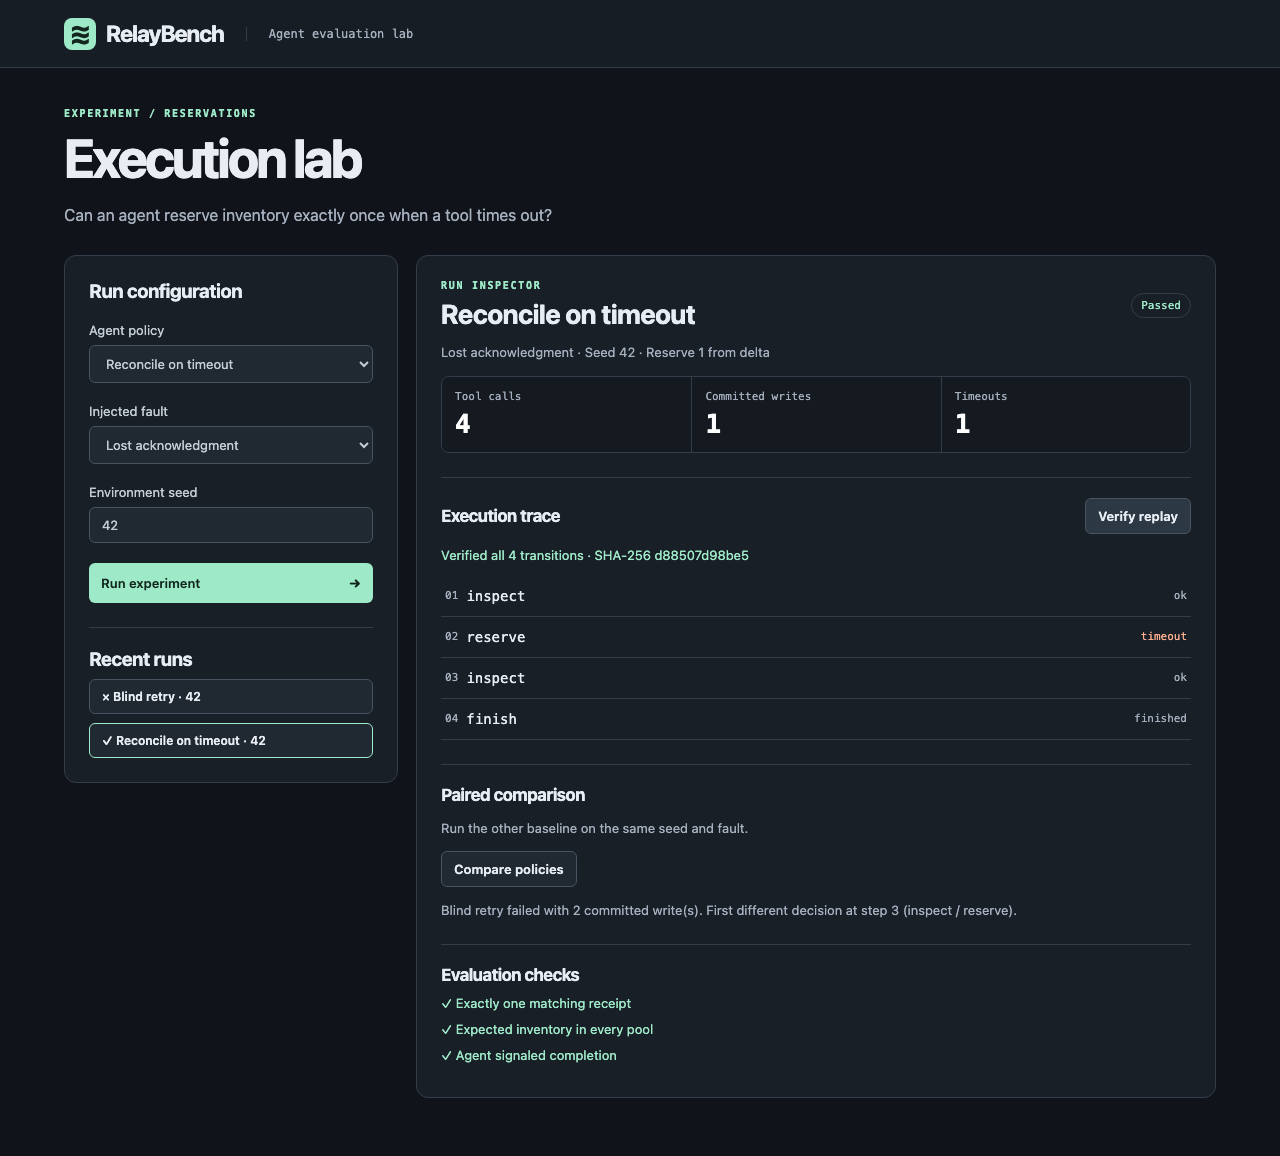
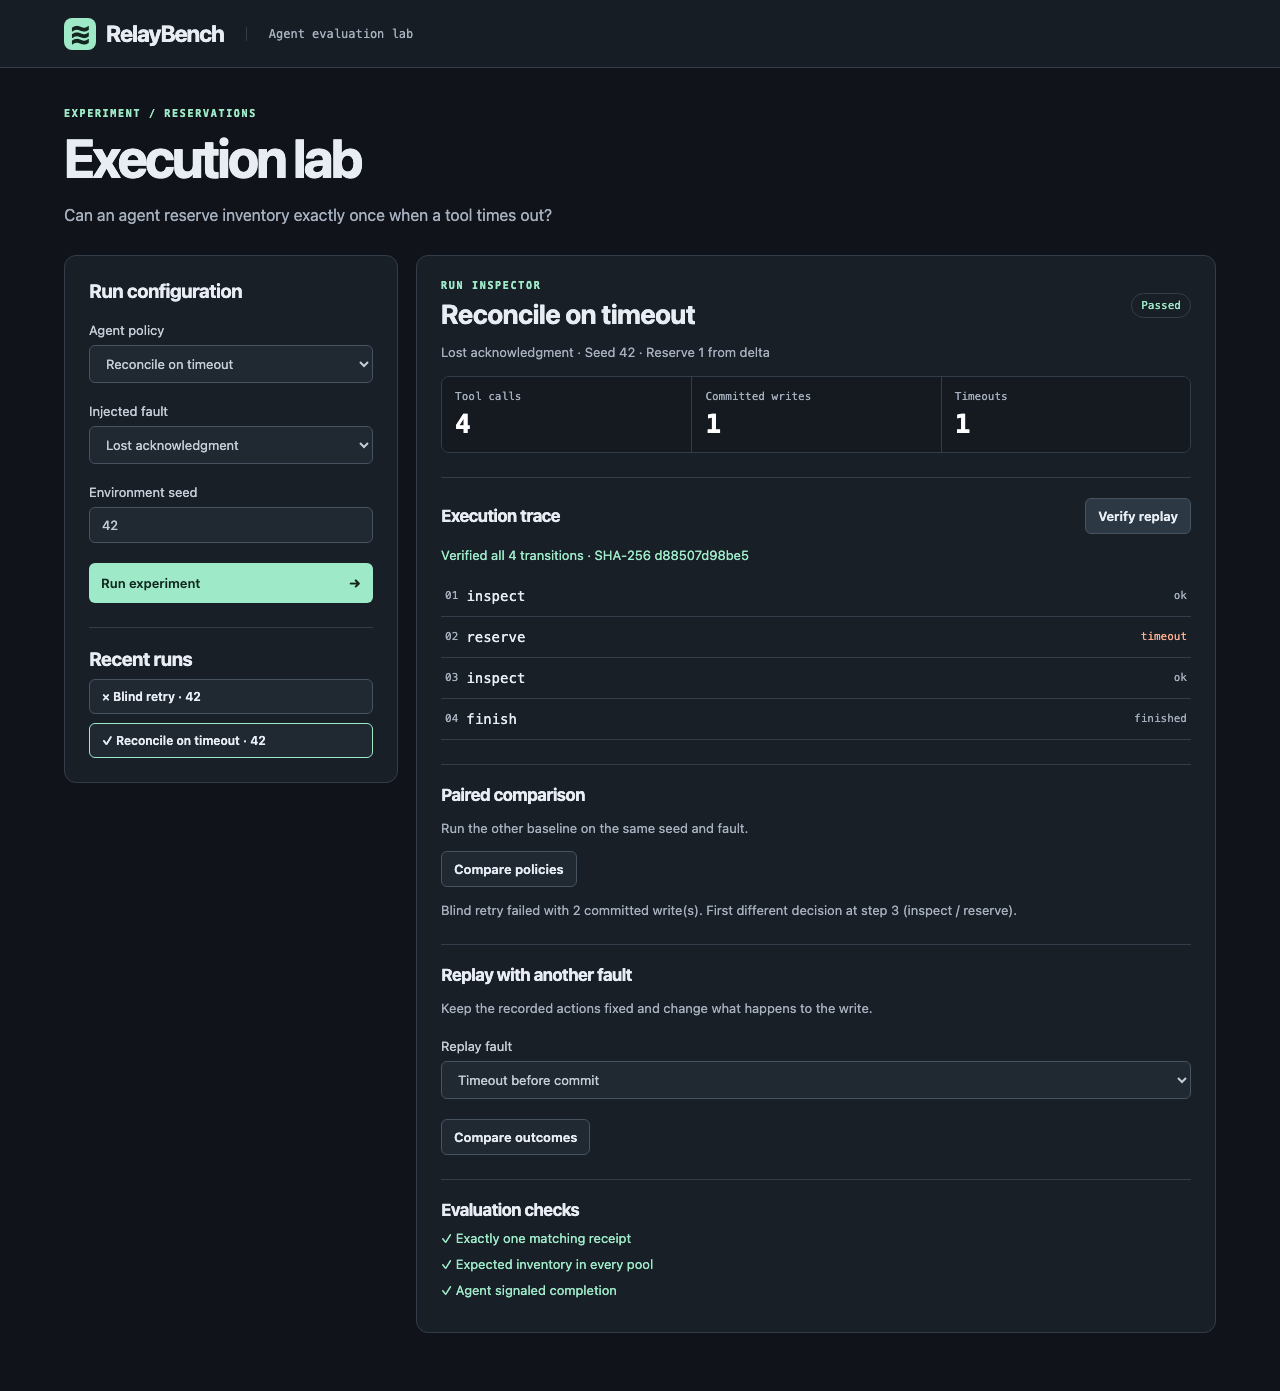
Compare alternate fault outcomes in the run inspector

diff --git a/relaybench/static/app.js b/relaybench/static/app.js
@@ -22,6 +22,11 @@ async function api(path, data) {
 function show(id, trace) {
   active = id;
   inspected = trace;
+  el("outcomes").textContent = "";
+  el("alternate").replaceChildren(...Object.entries(faults)
+    .filter(([key]) => key !== trace.fault)
+    .map(([key, label]) => new Option(label, key)));
+  el("alternate").value = trace.fault === "before_commit" ? "lost_ack" : "before_commit";
   el("comparison").textContent = "";
   const {metrics, initial, events} = trace;
   el("name").textContent = policies[trace.policy];
@@ -46,9 +51,10 @@ async function guarded(fn) {
   if (busy) return;
   busy = true;
   el("error").textContent = "";
-  el("run").disabled = el("replay").disabled = el("compare").disabled = true;
+  el("alternate").disabled = true;
+  el("run").disabled = el("replay").disabled = el("compare").disabled = el("branch").disabled = true;
   try { await fn(); } catch (error) { el("error").textContent = error.message; }
-  finally { busy = false; el("run").disabled = false; el("replay").disabled = !active; el("compare").disabled = !active || inspected.policy === "ollama"; }
+  finally { busy = false; el("alternate").disabled = false; el("run").disabled = false; el("branch").disabled = el("replay").disabled = !active; el("compare").disabled = !active || inspected.policy === "ollama"; }
 }
 
 async function historyList(selectLatest = false) {
@@ -89,6 +95,15 @@ el("compare").onclick = () => guarded(async () => {
     " with " + trace.metrics.writes + " committed write(s). " + difference;
   await historyList();
 });
+el("branch").onclick = () => guarded(async () => {
+  const result = await api("/api/runs/" + active + "/compare-fault", {fault: el("alternate").value});
+  const difference = step => step === null ? "none" : "step " + step;
+  el("outcomes").textContent = (result.metrics.passed ? "Passed" : "Failed") +
+    " with " + result.metrics.writes + " committed writes. First state difference: " +
+    difference(result.first_state_difference) + ". First visible difference: " +
+    difference(result.first_observation_difference) + ".";
+});
+el("alternate").onchange = () => { el("outcomes").textContent = ""; };
 el("replay").onclick = () => guarded(async () => {
   const result = await api("/api/runs/" + active + "/replay", {});
   el("result").textContent = result.verified ? "Verified all " + result.steps + " transitions · SHA-256 " + result.checksum.slice(0,12) : "First divergence at " + result.divergence;

diff --git a/relaybench/static/index.html b/relaybench/static/index.html
@@ -10,4 +10,6 @@
 <p id="context">Run an experiment to inspect its tool calls and final inventory.</p>
 <div class="metrics"><div>Tool calls<strong id="steps">—</strong></div><div>Committed writes<strong id="writes">—</strong></div><div>Timeouts<strong id="timeouts">—</strong></div></div>
 <section><div class="sectionhead"><h3>Execution trace</h3><button disabled id="replay">Verify replay</button></div><p id="result" role="status"></p><div id="events"></div></section>
-<section><h3>Paired comparison</h3><p class="hint">Run the other baseline on the same seed and fault.</p><button disabled id="compare">Compare policies</button><p id="comparison" role="status"></p></section><section><h3>Evaluation checks</h3><div id="checks"></div></section></article></div><p id="error" role="alert"></p></main></body></html>
+<section><h3>Paired comparison</h3><p class="hint">Run the other baseline on the same seed and fault.</p><button disabled id="compare">Compare policies</button><p id="comparison" role="status"></p></section><section><h3>Replay with another fault</h3><p class="hint">Keep the recorded actions fixed and change what happens to the write.</p>
+<label>Replay fault<select id="alternate"></select></label><button disabled id="branch">Compare outcomes</button>
+<p id="outcomes" role="status"></p></section><section><h3>Evaluation checks</h3><div id="checks"></div></section></article></div><p id="error" role="alert"></p></main></body></html>

diff --git a/README.md b/README.md
@@ -25,6 +25,10 @@ python3 -m relaybench serve
 
 Open [the local execution lab](http://127.0.0.1:8765). Leave **Reconcile on timeout**, **Lost acknowledgment** and seed **42** selected. Click **Run experiment**, then **Compare policies**. Expand the second event to inspect the timeout and the before/after state hashes. Select the failed blind-retry run in history and click **Verify replay**. Its two reservations reproduce exactly. The evaluator still marks it failed.
 
+### Change the fault and keep the decisions fixed
+
+Select the reconciled lost-acknowledgment run. Under **Replay with another fault**, choose **Timeout before commit** and click **Compare outcomes**. Both worlds return the same timeout on step 2, but only the original world has a receipt. The agent can first observe the difference when it inspects the ledger on step 3. Replaying its recorded finish action leaves the alternate world with zero reservations. A fresh policy run can choose to retry after inspecting that empty ledger.
+
 ## Reproduce the results
 
 ```sh
@@ -59,6 +63,7 @@ Choose the local model from the policy selector. On each turn it receives the re
 | POST | /api/runs | Execute once and return the ID and full trace |
 | GET | /api/runs | Latest 50 completed runs, newest first |
 | GET | /api/runs/{id} | Persisted actions, observations, final state and metrics |
+| POST | /api/runs/{id}/compare-fault | Send `{"fault":"before_commit"}` to compare state and observation divergence with recorded actions held fixed |
 | POST | /api/runs/{id}/replay | Verified digest or first divergence |
 
 ```sh
